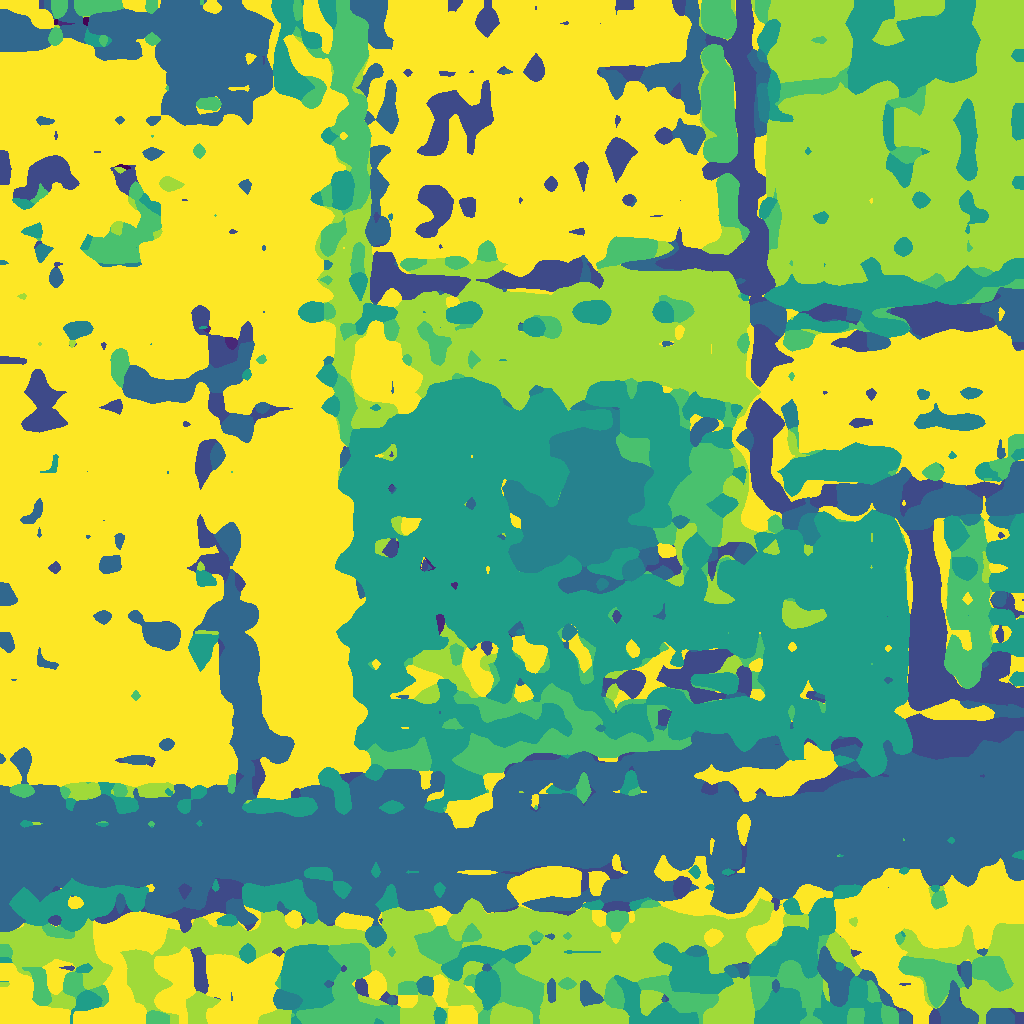
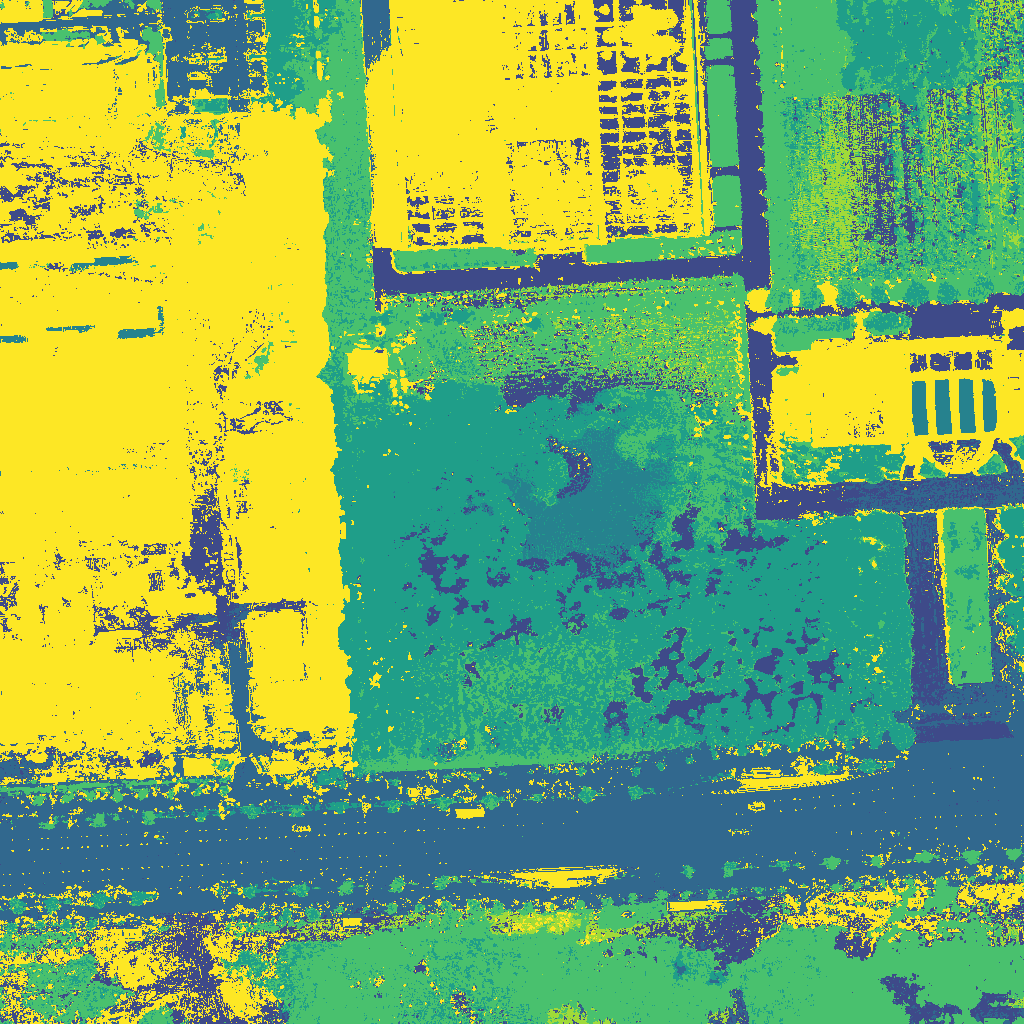
emmm

diff --git a/infer.py b/infer.py
@@ -254,7 +254,7 @@ def main():
     ]
 
     # 加载模型并固定eval
-    model = DenseClip("ViT-B-16", classnames, device=args.device, upsampler="111")
+    model = DenseClip("ViT-B-16", classnames, device=args.device, upsampler="satup")
     model.eval()
 
     # 创建输出文件夹
